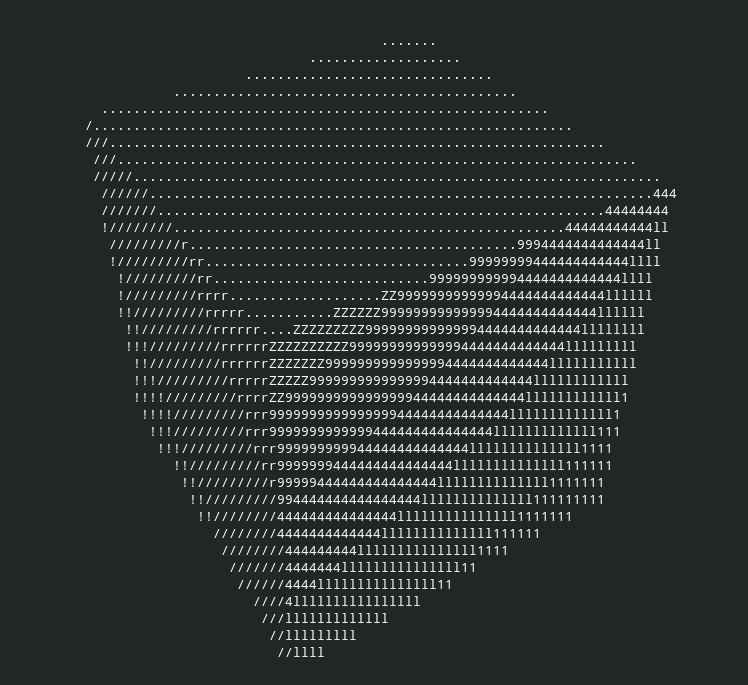
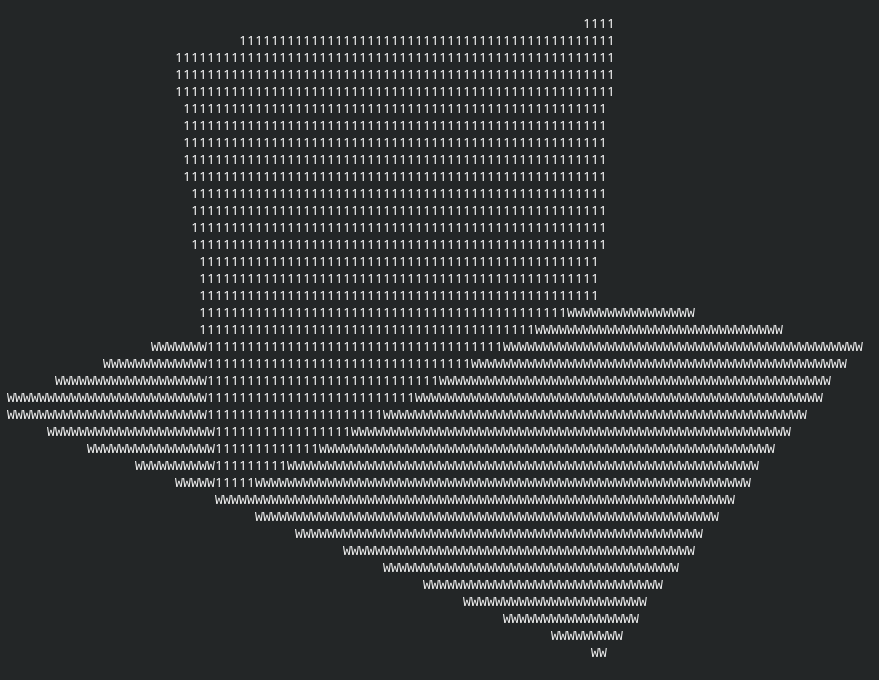
plane

Changed region(s): [[0.0, 0.0309, 0.984, 0.9882]]

diff --git a/ray_tracing.cpp b/ray_tracing.cpp
@@ -21,16 +21,17 @@ int main()
 
     float distortion = (8.0 / 16) * (width / height);
 
-    Box box = {-0.3, 0.3}; // cube
-    // Box box = {{-0.3}, {0.5, 0.3, 0.3}}; // parallelepiped
+    Plane v_plane = {{0, 0, -1}, 0}; // vertical
+    Plane g_plane = {{0, -1, 0}, 0}; // horizontal
 
     vector2 xy = 0;
 
     // static light
-    vector3 point_light = vector3(-2, -0.4, -1).normalize();
+    vector3 point_light = vector3(-0.5, -1, -0.5).normalize();
     vector3 camera = 0;
     vector3 ray = 0;
 
+    float cosa = 2; // unreal value
     int angle = 0;
 
     while (true)
@@ -45,23 +46,38 @@ int main()
             
                 xy = xy / 2.0f; // FOV
 
-                ray = vector3(xy.x, xy.y, 1).normalize();                
-                ray = rotate_x(ray, -13 * 180 / 3.14 ); 
-                ray = rotate_y(ray, angle * 0.05);
+                ray = vector3(xy.x, xy.y, 1).normalize();                               
+                ray = rotate_x(ray, -45 * 180 / 3.14);
+                ray = rotate_y(ray, angle * 0.01);
 
                 camera = vector3(0, 0, -1.5);
-                camera = rotate_x(camera, -13 * 180 / 3.14 );                
-                camera = rotate_y(camera, angle * 0.05);       
+                camera = rotate_x(camera, -45 * 180 / 3.14);
+                camera = rotate_y(camera, angle * 0.01);
 
-                vector3 normal = 0;
                 // i - intersection
-                vector2 i_distances = box.is_intersect(camera, ray, normal);
-                if (i_distances.x > 0)
+                float i_distance_v = v_plane.is_intersect(camera, ray);
+                float i_distance_g = g_plane.is_intersect(camera, ray);
+
+                vector3 i_point_v = camera + ray * i_distance_v;
+                vector3 i_point_g =  camera + ray * i_distance_g;
+
+                if (i_distance_v > 0 && i_distance_v < i_distance_g - 0.001 &&
+                    i_point_v < vector3(v_plane.d) + 0.5 &&
+                    i_point_v > vector3(v_plane.d) - 0.5)
                 {
-                    float cosa = dot_product(point_light, normal);
+                    cosa = dot_product(point_light, v_plane.normal);
+                }                
+                else if (i_distance_g > 0 &&
+                         i_point_g < vector3(g_plane.d) + 0.5 &&
+                         i_point_g > vector3(g_plane.d) - 0.5)
+                {
+                    cosa = dot_product(point_light, g_plane.normal);
+                }
+                
+                if (cosa < 2)
+                {
                     cosa *= 15;
                     cosa = fmin(fmax(0, cosa), g_size);
-
                     mvaddch(j, i, gradient[int(cosa)]);                
                 } else mvaddch(j, i, ' ');
             }

diff --git a/objects.h b/objects.h
@@ -4,48 +4,15 @@
 #include <cmath>
 #include "./vectors.h"
 
-class Box
+class Plane
 {
 public:
-    // two points on one diagonal which define a box
-    vector3 A;
-    vector3 B;
-    
-    void swap(float & a, float & b)
+    vector3 normal;
+    float d;
+
+    float is_intersect(vector3 camera, vector3 ray)
     {
-        float t = a;
-        a = b;
-        b = t;
-    }
-
-    vector2 is_intersect(vector3 camera, vector3 ray, vector3 & normal)
-    {
-        vector3 t1 = {(A.x - camera.x) / ray.x,
-                      (A.y - camera.y) / ray.y,
-                      (A.z - camera.z) / ray.z};
-
-        vector3 t2 = {(B.x - camera.x) / ray.x,
-                      (B.y - camera.y) / ray.y,
-                      (B.z - camera.z) / ray.z};
-
-        if (t1.x > t2.x) swap(t1.x, t2.x);
-        if (t1.y > t2.y) swap(t1.y, t2.y);
-        if (t1.z > t2.z) swap(t1.z, t2.z);
-
-        float t_near = fmax(fmax(t1.x, t1.y), t1.z);
-        float t_far  = fmin(fmin(t2.x, t2.y), t2.z);
-
-        // need another algorithm to calculate normals
-        vector3 i_point = camera + ray * t_near;
-        if      (t_near == t1.x && std::abs(i_point.x - A.x) < 0.1) normal = {-1, 0, 0};
-        else if (t_near == t1.x && std::abs(i_point.x - B.x) < 0.1) normal = {1, 0, 0};
-        else if (t_near == t1.y && std::abs(i_point.y - A.y) < 0.1) normal = {0, 1, 0};
-        else if (t_near == t1.y && std::abs(i_point.y - B.y) < 0.1) normal = {0, -1, 0};
-        else if (t_near == t1.z && std::abs(i_point.z - A.z) < 0.1) normal = {0, 0, 1};
-        else if (t_near == t1.z && std::abs(i_point.z - B.z) < 0.1) normal = {0, 0, -1};
-
-        if (t_far < 0 || t_near > t_far) return -1;
-        return vector2(t_near, t_far);
+        return -(dot_product(camera, normal) + d) / dot_product(ray, normal);
     }
 };
 

diff --git a/vectors.h b/vectors.h
@@ -66,6 +66,17 @@ public:
     {
         return {x / other.x, y / other.y, z / other.z};
     }
+
+    bool operator<(vector3 const& other)
+    {
+        return (x < other.x && y < other.y && z < other.z);
+    }
+
+    bool operator>(vector3 const& other)
+    {
+        return (x > other.x && y > other.y && z > other.z);
+    }
+
 };
 
 class vector2

diff --git a/README.md b/README.md
@@ -12,77 +12,4 @@ g++ -Wall -lm -lncurses ray_tracing.cpp vectors.h objects.h
 # Под капотом
 ---
 
-Разберём __проблему о пересечении луча и параллелепипеда.__
-
-![box1](img/box_intersection_1.png)
-
-Параллелепипед со сторонами параллельными координатным плоскостям (AABB - axis-aligned bounding box) однозначно определяется любыми двумя вершинами примыкающими к одной из его диагоналей:
-
-A(x_, y_, z_) и B(x+, y+, z+)
-
-Так же имееться луч вылетающий из точки С (Хс, Ус, Zc) в направлении __нормализованного__ вектора ray (l,m,n).
-
-Для начала рассмотрим пару плоскостей параллельную плоскости yz: x = x_ и x = x+
-
-![box2](img/box_intersection_2.png)
-
-1. Если l = 0, то луч параллелен рассматриваемым плоскостям, а значит пересечение возможно только в случае если Xc равно Х_ либо Х+ (оранжевый луч).
-2. Если l != 0, то находим расстояния до точек пересечения с этими плоскостями так:
-
-t1x = (X_ - Xc) / l
-
-t2x = (X+ - Xc) / l
-
-Откуда взялись эти формулы? Из одного из способов задания вектора: v = o + t * r, где o - начальная точка, r - направляющий вектор, t - может принимать любые действительные значения, от него зависит длина вектора.
-
-Сразу же для будущих манипуляций заведём две переменные: 
-
-t_near = t1x
-
-t_far = t2x
-
-При этом стоит отметить, что 0 < t_near < t_far: 
-
-* Если t_near < 0 и t_far < 0 - пересечений с этими плоскостями нет
-* Если t_near > t_far - нужно поменять их местами
-
-Теперь рассмотрим пару плоскостей параллельную плоскости xz: y = y_ и y = y+
-
-![box3](img/box_intersection_3.png)
-
-Дальше все аналогично:
-
-1. Если m = 0, то луч параллелен рассматриваемым плоскостям, а значит пересечение возможно только в случае если Yc равно Y_ либо Y+.
-2. Если m != 0, то находим расстояния до точек пересечения с этими плоскостями так:
-
-t1y = (Y_ - Yc) / m
-
-t2y = (Y+ - Yc) / m
-
-Будущие манипуляции:
-* Если t1y > t_near, то t_near = t1y
-* Если t2y < t_far, то t_far = t2y
-
-Не забываем при этом, что t1y < t2y.
-
-Абсолютно аналогично находим:
-
-t1z = (Z_ - Zc) / n
-
-t2z = (Z+ - Zc) / n
-
-И сравниваем tz с t_near и t_far.
-
-Если после всего:
-
-```
-0 < t_near < t_far
-или
-0 < t_far
-```
-
-то луч пересекает параллелепипед в точках:
-
-m1 = C + t_near * ray - точка входа луча
-
-m2 = C + t_far * ray - точка выхода луча
+Разберём __проблему о пересечении луча и плоскости.__
